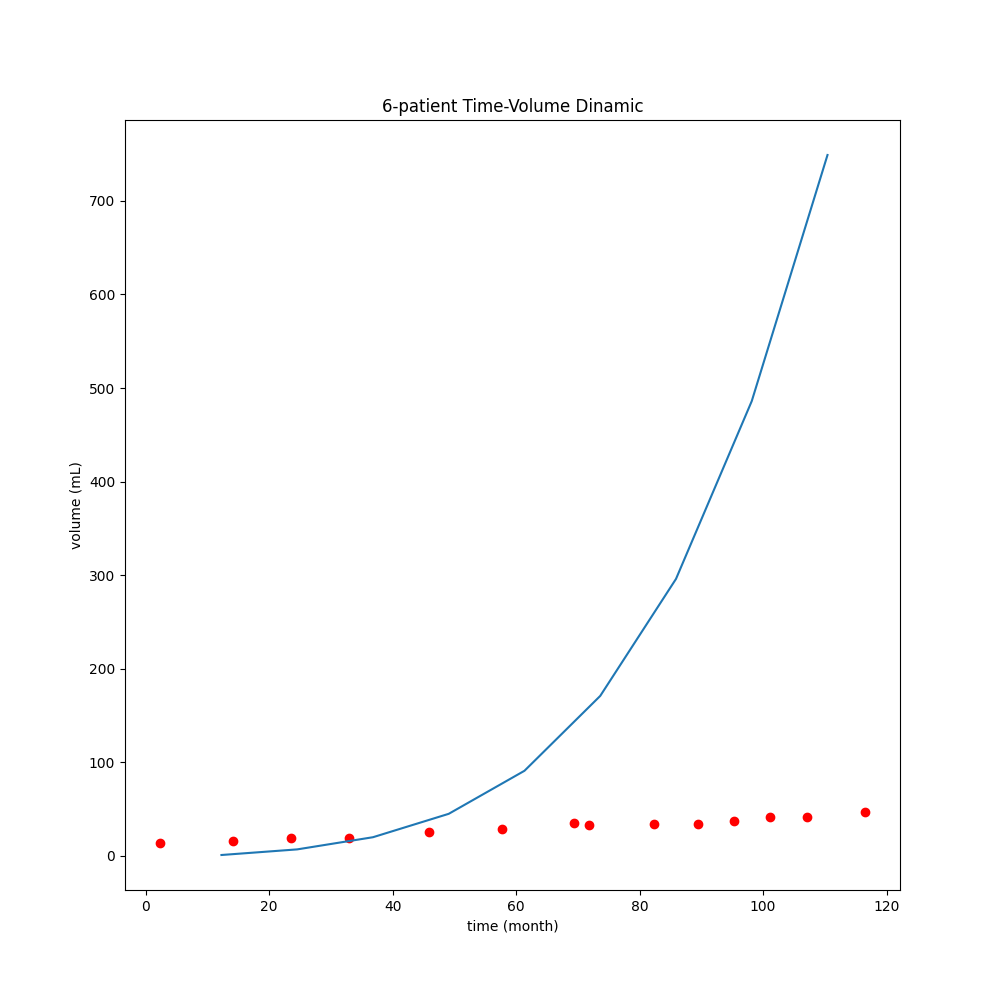
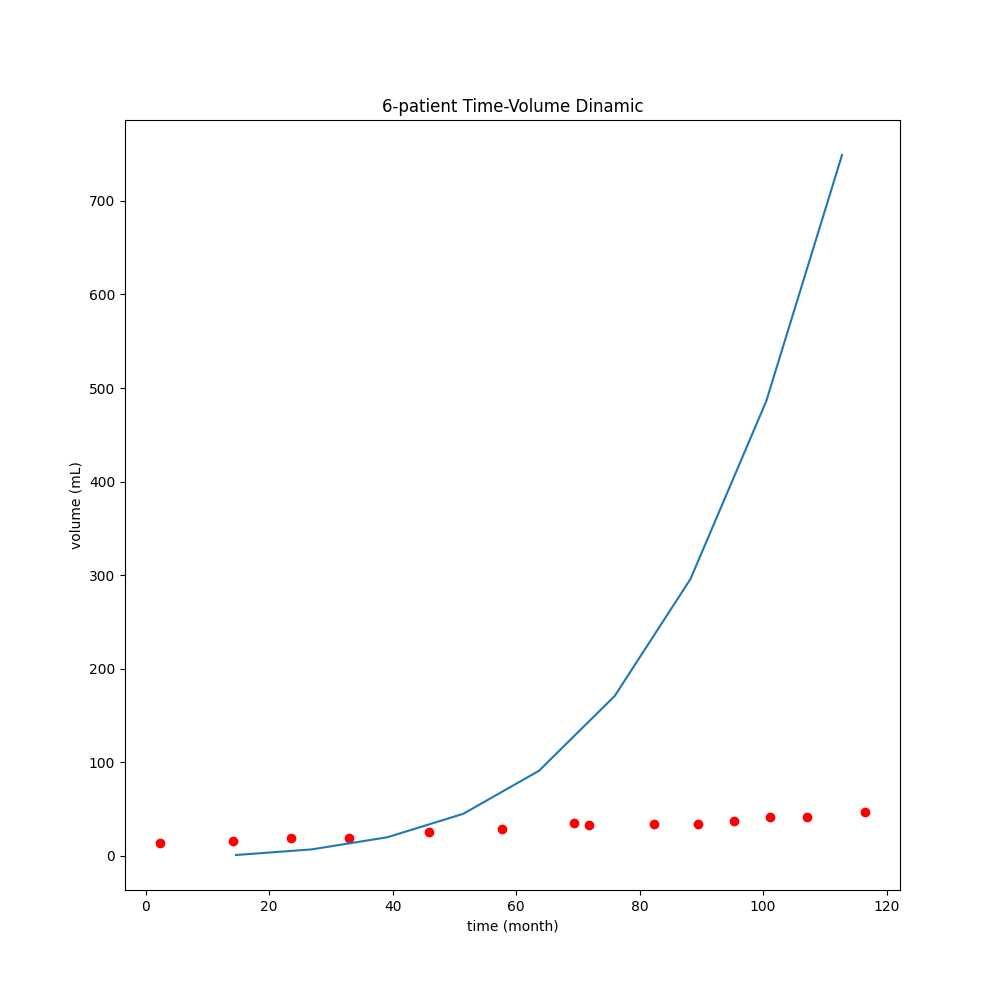
fix time start and time end

diff --git a/NotLinearCancerModel/MVVM/View/HomeView.xaml.cs b/NotLinearCancerModel/MVVM/View/HomeView.xaml.cs
@@ -154,6 +154,12 @@ namespace NotLinearCancerModel.MVVM.View
                 List<double[,,]> listAllValuesP = new List<double[,,]>();
                 List<float[]> listAllValuesT = new List<float[]>();
                 List<float[]> listAllValuesNumberPointsVolume = new List<float[]>();
+
+                float tStart = modelData.Patients[i]["Diameter"][0][0];
+                float tEnd = modelData.Patients[i]["Diameter"][0][modelData.Patients[i]["Diameter"][0].Count - 1];
+                tMax = tEnd - tStart;
+                //tMax = tEnd;
+                tMax /= 30;
                 do
                 {
                     // add to list every parameter
@@ -169,12 +175,6 @@ namespace NotLinearCancerModel.MVVM.View
 
                     D dF = new D(speedForFindMin, d);
                     diffusion = new MethodDiffusion(dF, c, q);
-
-                    float tStart = modelData.Patients[i]["Diameter"][0][0];
-                    float tEnd = modelData.Patients[i]["Diameter"][0][modelData.Patients[i]["Diameter"][0].Count - 1];
-                    tMax = tEnd - tStart;
-                    //tMax = tEnd;
-                    tMax /= 30;
 
                     double[,,] valuesP = new double[N, N, N];
                     diffusion.getValues(tMax, h, k, length, valuesP);
@@ -212,6 +212,10 @@ namespace NotLinearCancerModel.MVVM.View
                 Debug.WriteLine("cancerValuesParameters(Speed)\t" + cancerValuesParameters["Speed"].Count.ToString());
                 double[,,] requiredValuesP = listAllValuesP[indexMinDifference];
                 float[] requiredTValue = listAllValuesT[indexMinDifference];
+                for (int itemTValues = 0; itemTValues < requiredTValue.Length; itemTValues++)
+                {
+                    requiredTValue[itemTValues] = requiredTValue[itemTValues] + (tStart / 30);
+                }
                 float[] requiredNumberPointsVolume = listAllValuesNumberPointsVolume[indexMinDifference];
 
                 // prepare data about parameters of cancer for writing into files
